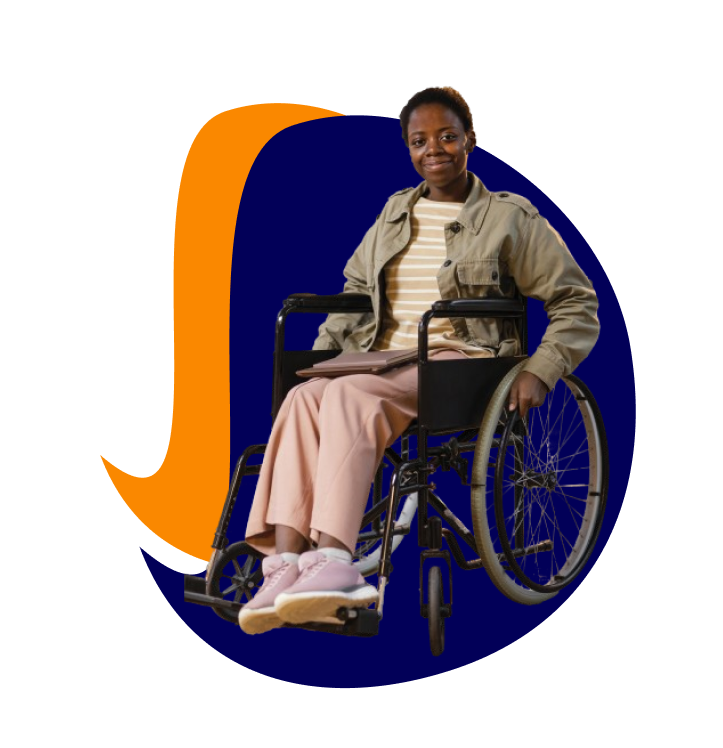
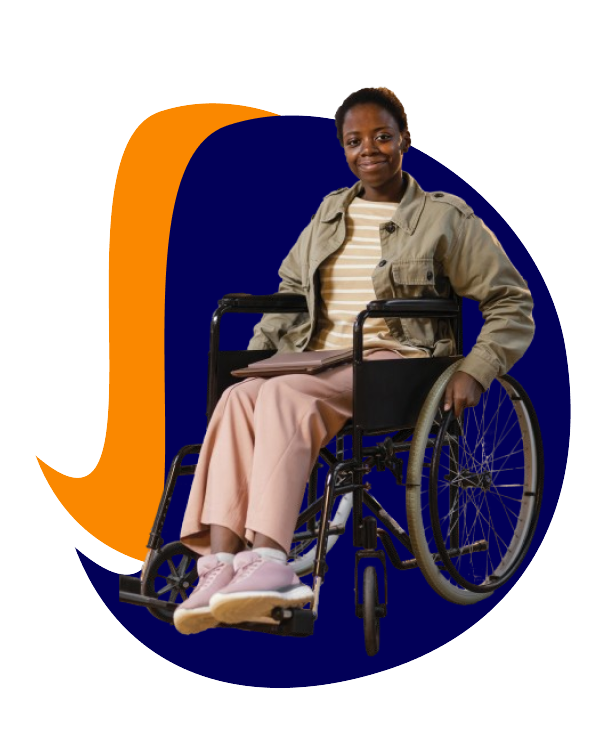
version5

Changed region(s): [[0.0624, 0.0922, 0.936, 0.9225], [0.6552, 0.861, 0.7176, 0.8917], [0.5304, 0.1537, 0.5616, 0.1845]]

diff --git a/css/style.css b/css/style.css
@@ -49,6 +49,10 @@
 
 }
 
+.navbar .berger{
+    display: none;
+}
+
 /* fin style navbar */
 
 /* debut style de la section une  */
@@ -114,6 +118,11 @@
     font-weight: 600;
     color: #FA8800;
    
+}
+
+.section1 .home{
+    height: 748px;
+    width: 722.11px;
 }
 /* fin style de la section une  */
 
@@ -214,21 +223,140 @@ h2{
 @media screen and (max-width: 426px) {
 
 .container{
-    padding: 0px 30px;
+     padding: 0px 20px;
 }
 
-.navbar .menu{
-    display: none;
-
+.navbar .berger{
+    height: 66px;
+    width: 66px;
 }
+
 .navbar{
     display: flex;
-    justify-content: center;
+    justify-content: space-between;
+}
+
+    
+.navbar img{
+    height: 110pw;
+    width: 162px;
 }
 .berger{
     width: 66px;
     height: 66px;
 }
 
-   
+/* debut media query .section1 */
+.section1{
+    flex-direction: column;
+    padding-top: 140px;
+    padding-right: 20px;
+    justify-content: center;
 }
+
+.section1 h1{
+    font-size: 36px;
+    text-align: center;
+    align-items: center;
+    padding-bottom: 20px;
+}
+
+.section1 .p1{
+    font-size: 20px;
+    text-align: center;
+    padding-bottom: 20px;
+}
+
+.section1 .home{
+    height: 353px;
+    width: 313px;
+    right: 50px; 
+    /* position: absolute;
+    top: 140px; */
+}
+
+/* .section1 .text{
+    position: relative;
+    bottom: 50px;
+} */
+
+.section1 .nav-bouton{
+    flex-direction: column;
+    align-items: center;
+}
+
+.section1 .nav-bouton .bouton1{
+    height: 38px;
+    width: 137px;
+    font-size: 15px;
+    left: 200px;
+   
+
+}
+
+.section1 .nav-bouton .bouton2{
+    height: 38px;
+    width: 137px;
+    font-size: 15px;
+}
+
+h2{
+    font-size: 30px;
+    font-weight: 600px;
+    color: #020058;
+}
+
+.section2{
+    flex-direction: column;
+    align-items: center;
+    /* height: 1739px; */
+}
+
+.section2 p{
+    font-size: 20px;
+    font-weight: 600px;
+    text-align: center;
+}
+
+.section2 .p2{
+    font-size: 20px;
+    font-weight: 400;
+    text-align: center;
+}
+.section2 .edwige{
+    height: 408px;
+    width: 268.39;
+    /* padding-bottom: 100px; */
+
+}
+
+.section2 .arxel{
+    height: 367;
+    width: 281;
+}
+
+.section2 .auriane{
+    height: 183.73;
+    width: 280.63;
+}
+
+
+/* fin media query .section1 */
+
+/* debut media query footer */
+
+.foot .pieds{
+    flex-direction: column;
+    font-size: 10px;
+    align-items: center;
+}
+
+.foot .mention{
+    font-size: 10px;
+}
+
+
+/* debut media query footer */
+
+}
+

diff --git a/index.html b/index.html
@@ -21,12 +21,15 @@
                     <li><a class="link" href="contact.html">contacts</a></li>
                 </ul>
             </div>
+            <div>
+            <img class="berger" src="assets/Hamburger_icon.svg.png" alt=" menu berger">
+            </div>
         </nav>
-        <img class="berger" src="assets/Hamburger_icon.svg.png" alt=" menu berger">
+        
     </header>
     <section>
         <div class="section1 container">
-            <div>
+            <div class="text">
                 <h1>L'inclusion par le numérique !</h1>
                 <div class="p1">
                     <p >
@@ -55,7 +58,7 @@
             <div class="edwige">
                 <img src="assets/leon-elldot-f6HbVnGtNnY-unsplash-removebg-preview 1.png" alt="edwige">
                 <p>Edwige</p>
-                <p>
+                <p class="p2">
                     je suis community manager à STS Company. 
                     j’ai été t du projet HANDINUM
                     Cette formation m’a permi d’être  insérée professionnellement  malgé que je suis handicapé auditive
@@ -64,7 +67,7 @@
             <div class="arxel">
                 <img src="assets/presh-wilson-ALrOc8f_oZ8-unsplash 1.png" alt="arxel">
                 <p>Arxel</p>
-                <p>
+                <p class="p2">
                     je suis web designer à SGBB. j’ai été bénéficiaire du projet HANDINUM
                     Cette formation m’ permi d’être ce que je suis aujoud’hui
                 </p>
@@ -72,10 +75,10 @@
             <div class="auriane">
                 <img src="assets/portrait-adult-woman-working-laptop 1.png" alt="auriane">
                 <p>Auriane</p>
-                <p>
-                    je suis  designer  graphiste à SGDS Company. 
-                    j’ai été bénéficiaire du projet HANDINUM
-                    Cette formation m’ permi d’être ce que je suis aujoud’hui
+                <p class="p2">
+                    je suis  designer  graphiste à SGDS <br> Company. 
+                    j’ai été bénéficiaire du <br> projet HANDINUM 
+                    Cette formation <br> m’ permi d’être ce que <br> je suis aujoud’hui
                 </p>
             </div>
         </div>
